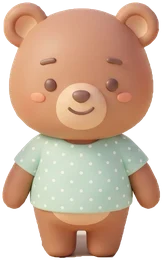
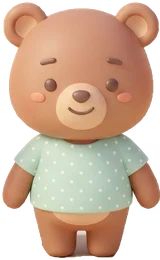
v34：走路更自然、景深、小熊小狗圖不再被切
- 主角和怪獸走路：起步停下放慢、身體上下彈左右擺、腳邊小灰塵
- 越往畫面上方越小（景深），前後遮擋用目前位置即時排
- 重新去背小熊、小狗，四套衣服的圖不再被切到
- 測試模式標籤縮小移到左上角

Claude-Session: https://claude.ai/code/session_01CEkvYNXCC61BsNkuCYH8Eg

diff --git a/js/yard.js b/js/yard.js
@@ -205,7 +205,9 @@ function yWrap(id,inner){const [dx,dy]=posOf(id);return `<g data-it="${id}" tran
 /* 主角、怪獸、夥伴：腳底對齊 (x,y) */
 const Y_MON_POS=[[130,218],[210,256],[86,236],[264,236],[156,262],[300,262],[60,200],[236,214],[110,264],[324,214],[196,226],[44,264]];
 const Y_HERO_HOME=[180,198];
-function yActor(attrs,x,y,inner,cls,delay,extra){return `<g ${attrs} class="actor ${cls||''}" style="transform:translate(${x}px,${y}px);${extra||''}"><ellipse cx="0" cy="0" rx="12" ry="3.6" fill="#3F5A30" opacity=".2"/><g class="flip"><g class="act ${isNight()?'sleepy':'bob'}" style="animation-delay:${delay||0}s">${inner}</g></g>${isNight()?`<text class="zzz" x="12" y="-40" font-size="10" fill="#fff">Z<tspan font-size="7" dy="-4">z</tspan></text>`:''}</g>`}
+function yScale(y){return (0.8+Math.max(0,Math.min(1,(y-165)/112))*0.32).toFixed(3)}
+function yT(x,y){return `translate(${(+x).toFixed(1)}px,${(+y).toFixed(1)}px) scale(${yScale(y)})`}
+function yActor(attrs,x,y,inner,cls,delay,extra){return `<g ${attrs} class="actor ${cls||''}" style="transform:${yT(x,y)};${extra||''}"><ellipse cx="0" cy="0" rx="12" ry="3.6" fill="#3F5A30" opacity=".2"/><g class="flip"><g class="act ${isNight()?'sleepy':'bob'}" style="animation-delay:${delay||0}s">${inner}</g></g>${isNight()?`<text class="zzz" x="12" y="-40" font-size="10" fill="#fff">Z<tspan font-size="7" dy="-4">z</tspan></text>`:''}</g>`}
 function yMonArt(svg){return `<g transform="translate(-21 -41)">${svg}</g>`}
 function yHeroArt(){const t=store.hero.type;return `<g transform="translate(-23 -60)">${hero(t,46)}</g>`}
 
@@ -246,13 +248,15 @@ function yFix(x,y){x=Math.max(22,Math.min(338,x));y=Math.max(170,Math.min(276,y)
   if(o.includes('swing')){const [sx,sy]=P('swing');if(x>18+sx&&x<86+sx&&y>194+sy&&y<224+sy)y=227+sy}
   return [Math.max(22,Math.min(338,x)),Math.max(170,Math.min(276,y))]}
 function yResort(root){const L=$(root+' #ysorted');if(!L)return;const kids=[...L.children];
-  kids.forEach(k=>{const a=k.querySelector(':scope > .actor');if(a){const m=/translate\(([-\d.]+)px,\s*([-\d.]+)px\)/.exec(a.style.transform);if(m)k.dataset.y=m[2]}});
+  kids.forEach(k=>{const a=k.querySelector(':scope > .actor');if(a){try{k.dataset.y=new DOMMatrix(getComputedStyle(a).transform).f.toFixed(1)}catch(e){}}});
   const want=kids.slice().sort((p,q)=>p.dataset.y-q.dataset.y);if(want.some((e,i)=>e!==kids[i]))want.forEach(e=>L.appendChild(e))}
 function yMoveTo(el,id,nx,ny,speed,root){const m=/translate\(([-\d.]+)px,\s*([-\d.]+)px\)/.exec(el.style.transform)||[0,180,200];const x=+m[1],y=+m[2];
-  const dist=Math.hypot(nx-x,ny-y),dur=Math.max(.6,dist/speed);el.querySelector('.flip').classList.toggle('left',nx<x);
-  el.style.transition=`transform ${dur}s linear`;el.style.transform=`translate(${nx.toFixed(1)}px,${ny.toFixed(1)}px)`;HOME_POS[id]=[nx,ny];
-  actDo(el,'walk',dur*1000);clearTimeout(el._rs);const t0=performance.now(),tick=()=>{yResort(root);if(performance.now()-t0<dur*1000+100)el._rs=setTimeout(tick,120)};tick();return dur}
+  const dist=Math.hypot(nx-x,ny-y),dur=Math.max(.7,dist/speed+.25);if(Math.abs(nx-x)>2)el.querySelector('.flip').classList.toggle('left',nx<x);
+  el.style.transition=`transform ${dur}s cubic-bezier(.42,0,.36,1)`;el.style.transform=yT(nx,ny);HOME_POS[id]=[nx,ny];
+  actDo(el,'ywalk',dur*1000-120);yDust(el,x,y,root);setTimeout(()=>{if(el.isConnected)yDust(el,nx,ny,root)},dur*1000-150);clearTimeout(el._rs);const t0=performance.now(),tick=()=>{yResort(root);if(performance.now()-t0<dur*1000+100)el._rs=setTimeout(tick,120)};tick();return dur}
 
+function yDust(el,x,y,root){if(RM)return;const L=$(root+' svg.yard');if(!L)return;const ns='http://www.w3.org/2000/svg',g=document.createElementNS(ns,'g');g.setAttribute('class','ydust');g.setAttribute('pointer-events','none');
+  g.innerHTML=[-7,0,7].map((dx,i)=>`<circle cx="${(x+dx).toFixed(1)}" cy="${(y-1).toFixed(1)}" r="${2.4-i%2*.6}" fill="#FFFDF5" style="animation-delay:${i*.05}s"/>`).join('');L.appendChild(g);setTimeout(()=>g.remove(),800)}
 /* 主角和怪獸在院子裡慢慢晃（晚上睡覺、布置時暫停） */
 function startWander(root='#scene'){clearInterval(wanderT);if(RM||isNight()||S.decor)return;
   const actors=$$(root+' .actor');actors.forEach(el=>{el._next=performance.now()+1200+Math.random()*2500});
@@ -296,7 +300,7 @@ function bindScene(){
 
 /* ---------- 主角：小熊、小狗換成新比例的生成圖，可以換 4 套衣服 ---------- */
 HEROES.dog=HEROES.dog||{name:'小狗',c:'#D9824A'};
-const Y_HERO_NEW={bear:[[152,260],[162,260],[162,260],[155,260]],dog:[[169,260],[194,260],[194,260],[173,260]]};
+const Y_HERO_NEW={bear:[[164,260],[160,260],[160,260],[164,260]],dog:[[192,260],[192,260],[192,260],[194,260]]};
 const Y_OUTFITS=[['粉紅毛衣','#F5A9B8'],['薄荷點點','#93D8BF'],['鵝黃條紋','#FBD56E'],['天空格子','#9CCBEF']];
 const yHeroOld=hero;
 hero=function(type,size=90,eqo){

diff --git a/css/clay.css b/css/clay.css
@@ -412,6 +412,12 @@ svg.yard .bfly.b1{animation:yfly1 26s linear infinite}svg.yard .bfly.b2{animatio
 @keyframes yfly3{0%{transform:translate(90px,120px)}35%{transform:translate(30px,170px)}70%{transform:translate(110px,190px)}100%{transform:translate(90px,120px)}}
 svg.yard .ffly{animation:yff 8s ease-in-out infinite}
 @keyframes yff{0%,100%{transform:translate(0,0);opacity:.2}30%{transform:translate(8px,-10px);opacity:1}65%{transform:translate(-7px,-4px);opacity:.5}}
+/* 走路：身體上下彈、左右擺、往前傾（.act 的原點在腳底） */
+svg.yard .act.ywalk{animation:ywalk .42s ease-in-out infinite}
+@keyframes ywalk{0%,100%{transform:translateY(0) rotate(-3deg) scale(1,1)}25%{transform:translateY(-3px) rotate(0) scale(.98,1.03)}50%{transform:translateY(0) rotate(3deg) scale(1.03,.97)}75%{transform:translateY(-3px) rotate(0) scale(.98,1.03)}}
+svg.yard .ydust circle{transform-box:fill-box;transform-origin:center;animation:ydust .75s ease-out forwards}
+@keyframes ydust{0%{opacity:.9;transform:scale(.4)}100%{opacity:0;transform:translateY(-5px) scale(1.6)}}
+svg.yard .actor{will-change:transform}
 @media (prefers-reduced-motion:reduce){svg.yard *{animation:none!important}}
 
 /* =========================================================
@@ -421,12 +427,12 @@ svg.yard .ffly{animation:yff 8s ease-in-out infinite}
 .wrap{padding-bottom:calc(170px + env(safe-area-inset-bottom))}
 body.focus .wrap{padding-bottom:30px}
 /* 測試模式：改成右上角的小標籤，不再蓋住星星和經驗條 */
-.testtag{top:auto;bottom:calc(84px + env(safe-area-inset-bottom));left:12px;transform:none;font-size:.72rem;padding:3px 10px;opacity:.9}
+.testtag{top:calc(4px + env(safe-area-inset-top));bottom:auto;left:4px;transform:none;font-size:0;padding:2px 8px;opacity:.85}
+.testtag::before{content:'🧪 測試中';font-size:.68rem}
 @media (max-width:520px){
   /* 馬上冷靜：手機上縮成圓圓的一顆，靠右下，不再壓住卡片的字 */
   .sos{width:64px;height:64px;min-height:0;padding:0;border-radius:50%;justify-content:center;flex-direction:column;gap:0;font-size:.72rem;line-height:1.15;right:10px;bottom:calc(92px + env(safe-area-inset-bottom))}
   .sos .sos-t{display:block;font-size:.7rem}
-  .testtag{bottom:calc(160px + env(safe-area-inset-bottom))}
 }
 
 /* ---------- 尊重「減少動態效果」 ---------- */

diff --git a/js/home.js b/js/home.js
@@ -65,7 +65,7 @@ function wrapIt(id,inner){const [dx,dy]=posOf(id);const ed=S.decor;
 /* ---------- 家園小動態：走動、休息、跳一跳、東張西望（晚上睡覺、布置時暫停） ---------- */
 const HOME_POS={};let wanderT=null;
 const RM=(()=>{try{return matchMedia('(prefers-reduced-motion: reduce)').matches}catch(e){return false}})();
-function actDo(el,cls,ms){const a=el.querySelector('.act');if(!a)return;a.classList.remove('bob','walk','rest','hop','look');void a.getBoundingClientRect();a.classList.add(cls);
+function actDo(el,cls,ms){const a=el.querySelector('.act');if(!a)return;a.classList.remove('bob','walk','ywalk','rest','hop','look');void a.getBoundingClientRect();a.classList.add(cls);
   if(ms)setTimeout(()=>{if(a.isConnected&&a.classList.contains(cls)){a.classList.remove(cls);a.classList.add('bob')}},ms)}
 function startWander(root='#scene'){clearInterval(wanderT);if(RM||isNight()||S.decor)return;
   const actors=$$(root+' .actor');actors.forEach(el=>{el._next=performance.now()+800+Math.random()*2500});

diff --git a/sw.js b/sw.js
@@ -1,6 +1,6 @@
 /* 離線快取（v21）：第一次開啟時把整個工具存進裝置，之後沒有網路也能開，而且一點就開。
    ★ 每次更新程式或圖片，都要把下面的 VERSION 改掉（例如 v21 → v22），裝置才會抓新版。 */
-const VERSION='v33';
+const VERSION='v34';
 const CACHE='calm-monster-'+VERSION;
 const FILES=[
   './',
